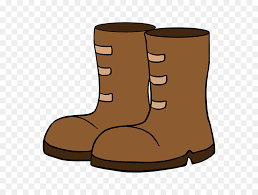
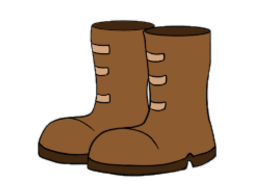
sem fundo branco

Changed region(s): [[0.124, 0.0923, 0.8682, 0.9231], [0.3721, 0.6769, 0.4031, 0.7077]]

diff --git a/Minigame Cesta 1.py b/Minigame Cesta 1.py
@@ -50,7 +50,7 @@ def load_assets():
     assets = {}
     #carrega imagens
     assets['background'] = pygame.image.load(os.path.join(pasta_img, 'fundo_cesta.jpg')).convert()
-    assets['imag_cesta'] = pygame.image.load(os.path.join(pasta_img, 'cesta.jpg')).convert_alpha()
+    assets['imag_cesta'] = pygame.image.load(os.path.join(pasta_img, 'cesta.png')).convert_alpha()
     assets['imag_fruta'] = pygame.image.load(os.path.join(pasta_img, 'maca_verde.png')).convert_alpha()
     assets['imag_bota'] = pygame.image.load(os.path.join(pasta_img, 'bota.png')).convert_alpha()
     #muda dimensoes imagens
